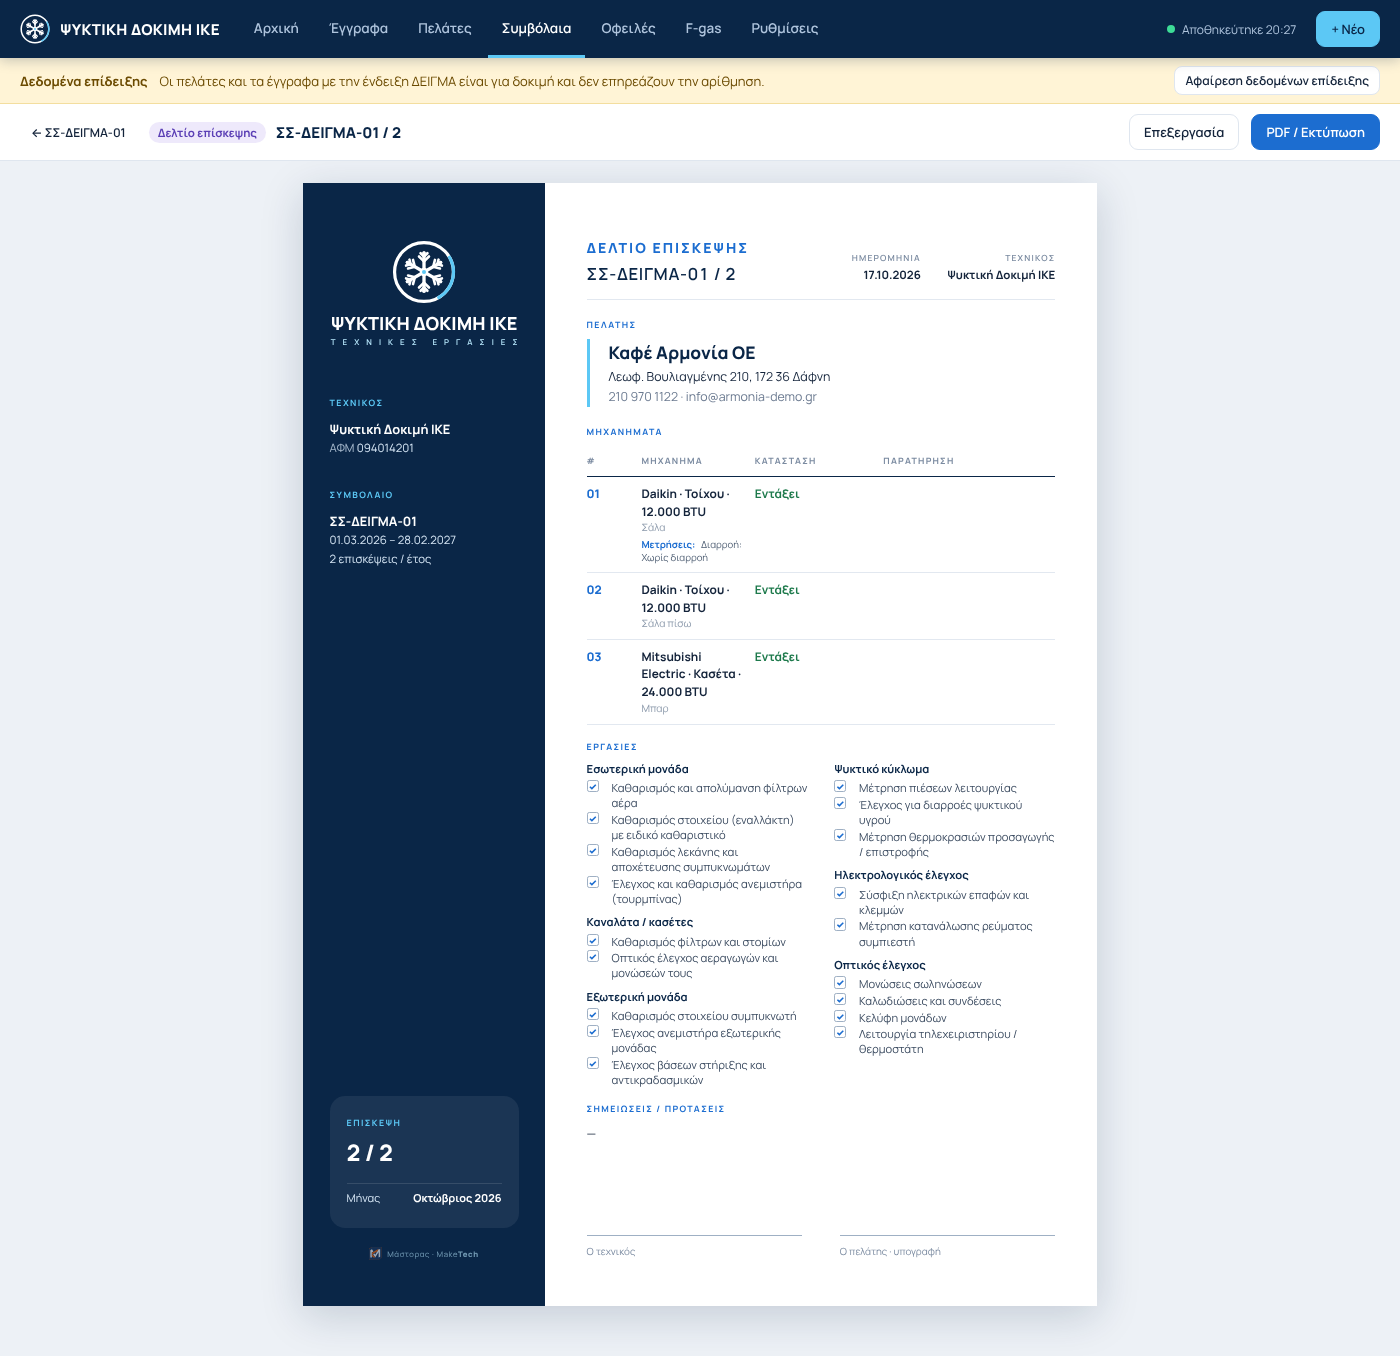
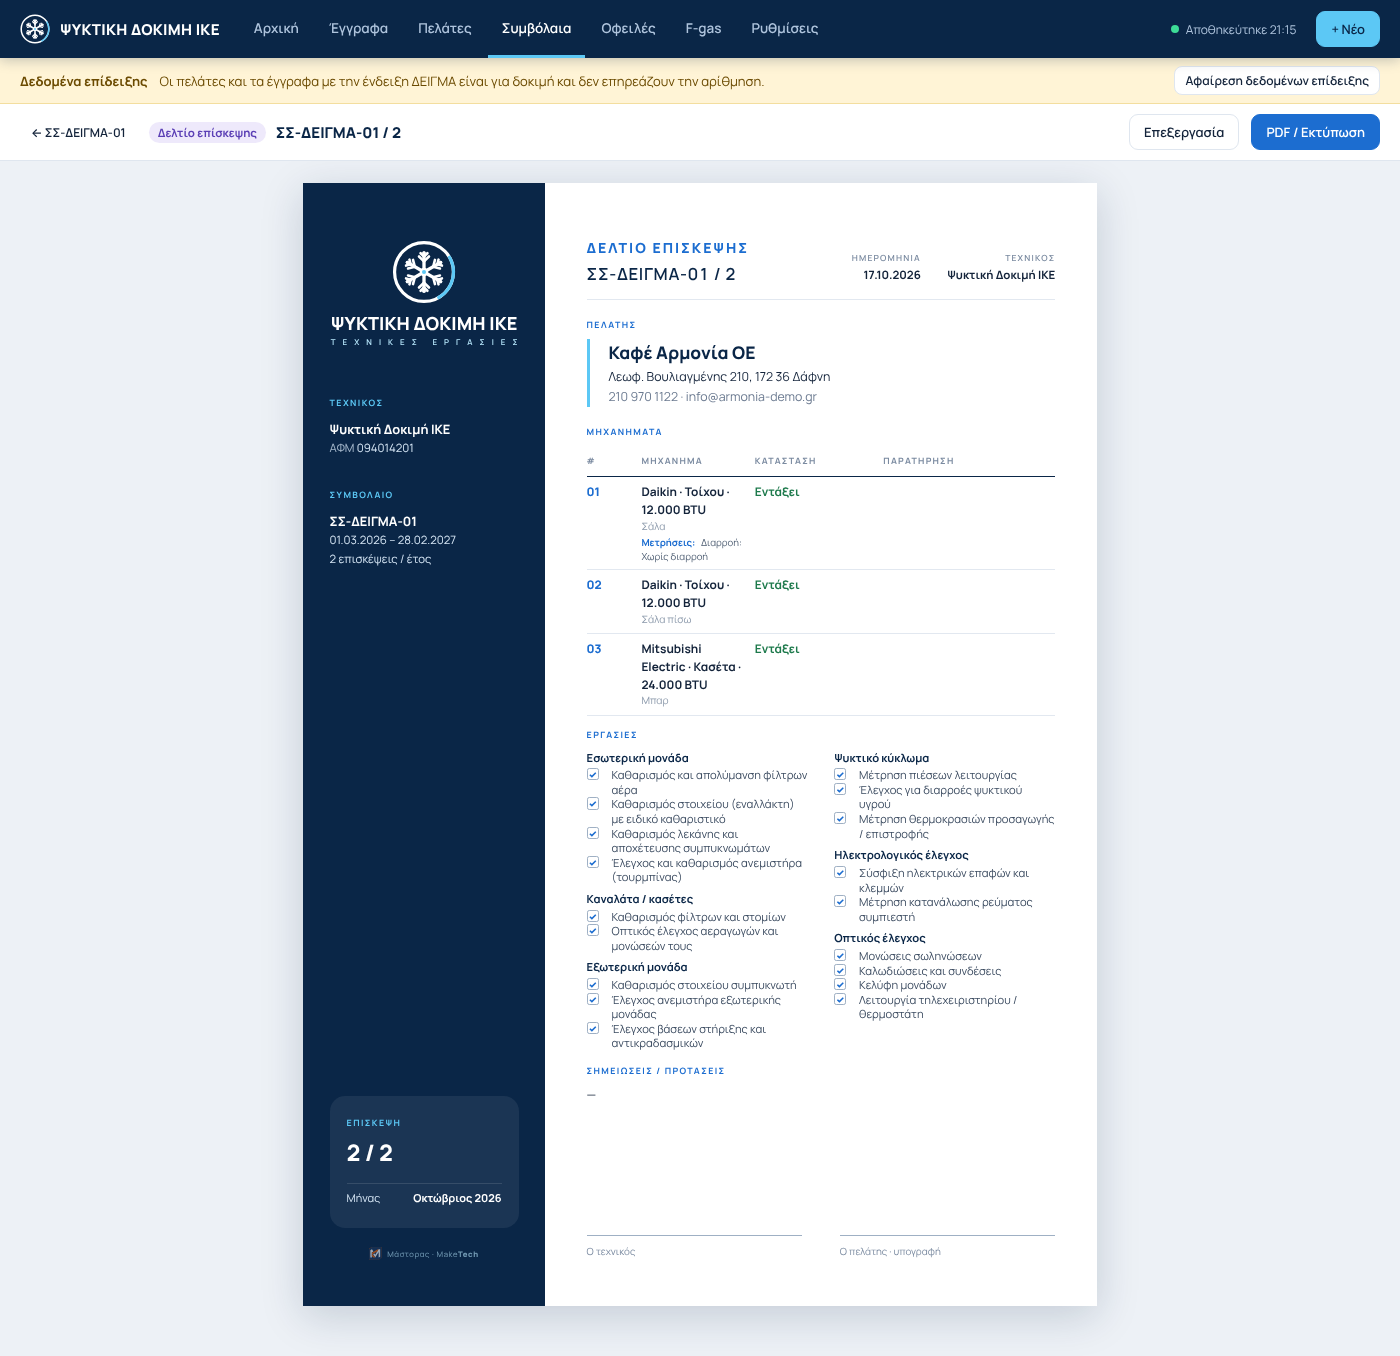
Δελτίο επίσκεψης: πιο συμπαγής διάταξη ώστε να χωρά σε μία σελίδα και στο CI
Claude-Session: https://claude.ai/code/session_01LUvWKvqkAjiyCENFckGPL5

diff --git a/dist/mastoras.html b/dist/mastoras.html
@@ -474,6 +474,11 @@ details.guide ul{padding-left:18px;margin-top:6px}
 .view p.vnote{font-size:12.5px;color:var(--muted);margin-top:10px;line-height:1.55}
 .page.ticketp .mtab th:first-child{width:46mm!important}
 .page.ticketp .mtab td:first-child{padding-right:3mm}
+/* visit report: compact enough for a full A/C checklist with measurements on one A4 page */
+.page.visit .cs{margin-bottom:3.6mm}
+.page.visit .mtab td{padding-top:1.6mm;padding-bottom:1.6mm}
+.page.visit .kg{margin-bottom:1.6mm}.page.visit .kg li{padding:0;line-height:1.3}
+.page.visit .sign{margin-top:6mm}
 
 </style></head>
 <body>

diff --git a/src/css/app.css b/src/css/app.css
@@ -192,3 +192,8 @@ details.guide ul{padding-left:18px;margin-top:6px}
 .view p.vnote{font-size:12.5px;color:var(--muted);margin-top:10px;line-height:1.55}
 .page.ticketp .mtab th:first-child{width:46mm!important}
 .page.ticketp .mtab td:first-child{padding-right:3mm}
+/* visit report: compact enough for a full A/C checklist with measurements on one A4 page */
+.page.visit .cs{margin-bottom:3.6mm}
+.page.visit .mtab td{padding-top:1.6mm;padding-bottom:1.6mm}
+.page.visit .kg{margin-bottom:1.6mm}.page.visit .kg li{padding:0;line-height:1.3}
+.page.visit .sign{margin-top:6mm}
